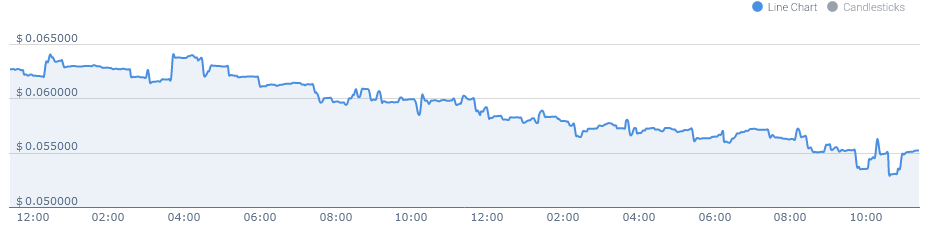
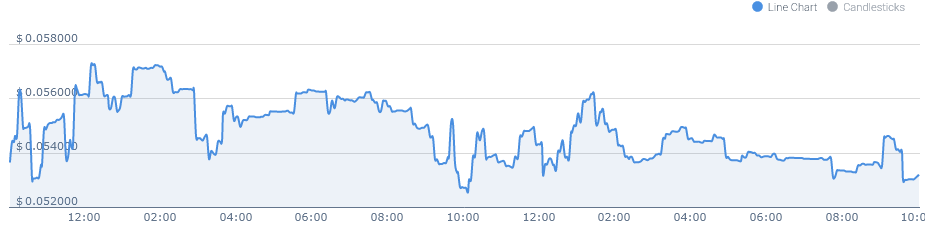
validators

diff --git a/index.js b/index.js
@@ -23,6 +23,13 @@ var quotient = 0.0192;
 var start = new Date('2020-08-21 05:00');
 
 var bondedSwth = '50%';
+var totalSupply = '1,005,188,672 SWTH';
+var tradeHubSupply = '535,067,822 SWTH';
+var stakingAPR = '187.83%';
+var marketCap = '$55,130,578';
+var activeValidators = 11;
+
+var validators = [];
 
 let gasSubscribersMap = new Map();
 let gasSubscribersLastPushMap = new Map();
@@ -602,6 +609,24 @@ client.on("message", msg => {
                         console.log("Error: " + err.message);
                     });
 
+                } else if (command == "2") {
+
+                    validators.forEach(v => {
+                        let fee = v.commission.commission_rates.rate * 100;
+                        fee = Math.round(((fee) + Number.EPSILON) * 100) / 100;
+                        let site = "https://switcheo.org/validator/" + v.operator_address;
+                        let tokens = v.tokens / 100000000;
+                        tokens = Math.round(tokens);
+                        tokens = getNumberLabel(Math.round(tokens));
+                        var response = "[Profile](" + site + ") \nFee: **" + fee + "**%" + " \nPool size: **" + tokens + " swth**";
+                        exampleEmbed.addField(v.description.moniker, response);
+                    });
+                    if (doReply) {
+                        msg.reply(exampleEmbed);
+                    } else {
+                        msg.channel.send(exampleEmbed);
+                    }
+
                 } else if (command == "9") {
 
                     exampleEmbed.addField("USD (coingecko)", coingeckoUsd, false);
@@ -677,6 +702,25 @@ client.on("message", msg => {
 
     }
 )
+
+function getNumberLabel(labelValue) {
+
+    // Nine Zeroes for Billions
+    return Math.abs(Number(labelValue)) >= 1.0e+9
+
+        ? Math.round(Math.abs(Number(labelValue)) / 1.0e+9) + "B"
+        // Six Zeroes for Millions
+        : Math.abs(Number(labelValue)) >= 1.0e+6
+
+            ? Math.round(Math.abs(Number(labelValue)) / 1.0e+6) + "M"
+            // Three Zeroes for Thousands
+            : Math.abs(Number(labelValue)) >= 1.0e+3
+
+                ? Math.round(Math.abs(Number(labelValue)) / 1.0e+3) + "K"
+
+                : Math.abs(Number(labelValue));
+
+}
 
 setInterval(function () {
     https.get('https://api.coingecko.com/api/v3/coins/ethereum', (resp) => {
@@ -821,8 +865,13 @@ async function getStakingInfo() {
         await page.setViewport({width: 1000, height: 926});
         await page.goto("https://switcheo.org/", {waitUntil: 'networkidle2'});
 
+        await delay(4000);
+
+        await page.screenshot({path: 'screenshot.png'});
+
         /** @type {string[]} */
         var prices = await page.evaluate(() => {
+
             var div = document.querySelectorAll('div.c513');
 
             var prices = []
@@ -830,15 +879,53 @@ async function getStakingInfo() {
                 prices.push(element.textContent);
             });
 
+            div = document.querySelectorAll('div.c516');
+
+            div.forEach(element => {
+                prices.push(element.textContent);
+            });
+
             return prices
         })
 
+        stakingAPR = prices[1];
         bondedSwth = prices[2];
+        activeValidators = prices[3];
+        marketCap = prices[5];
+        totalSupply = prices[6];
+        tradeHubSupply = prices[7];
+        totalSupply = replaceString(totalSupply, "SWTH", " SWTH");
+        tradeHubSupply = replaceString(tradeHubSupply, "SWTH", " SWTH");
         browser.close()
     } catch (e) {
-        console.log("Error happened on getting data from SNX tools.");
+        console.log("Error happened on getting data from https://switcheo.org/.");
         console.log(e);
     }
+}
+
+function delay(time) {
+    return new Promise(function (resolve) {
+        setTimeout(resolve, time)
+    });
+}
+
+function getValidators() {
+    https.get('https://tradescan.switcheo.org/staking/validators', (resp) => {
+        let data = '';
+
+        // A chunk of data has been recieved.
+        resp.on('data', (chunk) => {
+            data += chunk;
+        });
+
+        // The whole response has been received. Print out the result.
+        resp.on('end', () => {
+            validators = JSON.parse(data).result;
+        });
+
+    }).on("error", (err) => {
+        console.log("Error getting validators: " + err.message);
+    });
 }
 
 setInterval(function () {
@@ -877,7 +964,19 @@ function doCalculate(command, msg, gasPriceParam, fromDM) {
         .setColor('#0099ff')
         .setTitle('Calculated rewards:');
     exampleEmbed.addField("SWTH weekly rewards", "You are expected to receive **" + result + "** SWTH for this week for **" + command + "** staked SWTH"
-        + "\n The estimated value of SWTH rewards is: **" + resRewInUsd + "$**");
+        + "\n The estimated value of SWTH rewards is: **$" + resRewInUsd + "**");
+    exampleEmbed.addField("Calculation info",
+        "Planned weekly inflation: **" + (Math.round(((quotientNow * 100) + Number.EPSILON) * 100) / 100) + "%**\n"
+        + "Staked swth percentage: **" + bondedSwth + "**\n"
+        + "Actual weekly staking rate **" + (Math.round(((quotientNow * 100 * 100 / bondedNumber) + Number.EPSILON) * 100) / 100) + "%**\n"
+        + "Swth price: **$" + coingeckoUsd + "**\n"
+        + "Averaged validator fee: **" + 7 + "%**");
+    exampleEmbed.addField("General info",
+        "Total supply: **" + totalSupply + "**\n"
+        + "Tradehub supply: **" + tradeHubSupply + "**\n"
+        + "Staking APR: **" + stakingAPR + "**\n"
+        + "Market cap: **" + marketCap + "**\n"
+        + "Active validators: **" + activeValidators + "**");
     msg.reply(exampleEmbed);
 }
 
@@ -886,7 +985,7 @@ function doShowChart(type, msg, fromDM) {
         const exampleEmbed = new Discord.MessageEmbed()
             .setColor('#0099ff')
             .setTitle(type + ' SWTH price chart');
-        exampleEmbed.addField("Possible options:", "24H, 7D, 1M, 3M, 6M, YTD, 1Y, ALL");
+        exampleEmbed.addField("Possible options:", "realtime, 24H, 7D, 1M, 3M, 6M, YTD, 1Y, ALL");
         exampleEmbed.attachFiles(['charts/chart' + type.toLowerCase() + '.png'])
             .setImage('attachment://' + 'chart' + type.toLowerCase() + '.png');
         msg.reply(exampleEmbed);
@@ -931,9 +1030,13 @@ async function getChart(type) {
     }
 }
 
+
+setTimeout(function () {
+    getChart('realtime');
+}, 1 * 1000);
 setTimeout(function () {
     getChart('24H');
-}, 1 * 1000);
+}, 5 * 1000);
 setTimeout(function () {
     getChart('7D');
 }, 10 * 1000);
@@ -957,6 +1060,9 @@ setTimeout(function () {
 }, 70 * 1000);
 
 
+setInterval(function () {
+    getChart('realtime');
+}, 60 * 3 * 1000);
 setInterval(function () {
     getChart('24H');
 }, 60 * 7 * 1000);
@@ -983,6 +1089,8 @@ setInterval(function () {
 }, 60 * 100 * 1000);
 
 setTimeout(getStakingInfo, 10 * 1000);
-setInterval(getStakingInfo, 60 * 10 * 1000);
+setInterval(getStakingInfo, 60 * 1000);
+
+setInterval(getValidators, 20 * 1000);
 
 client.login(process.env.BOT_TOKEN);
